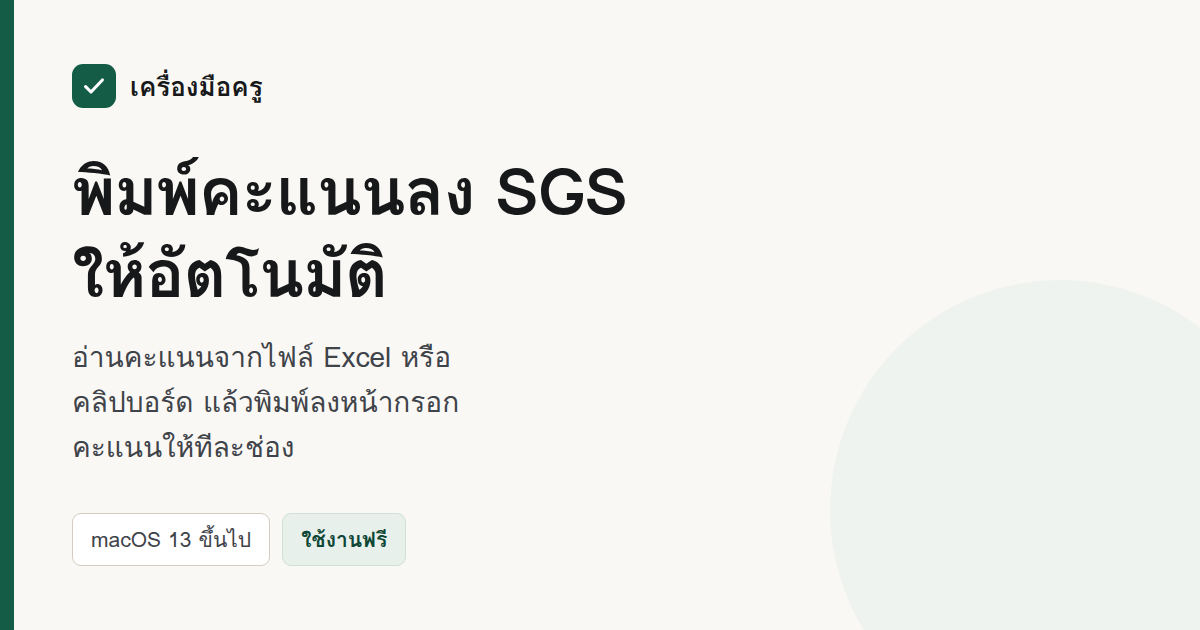
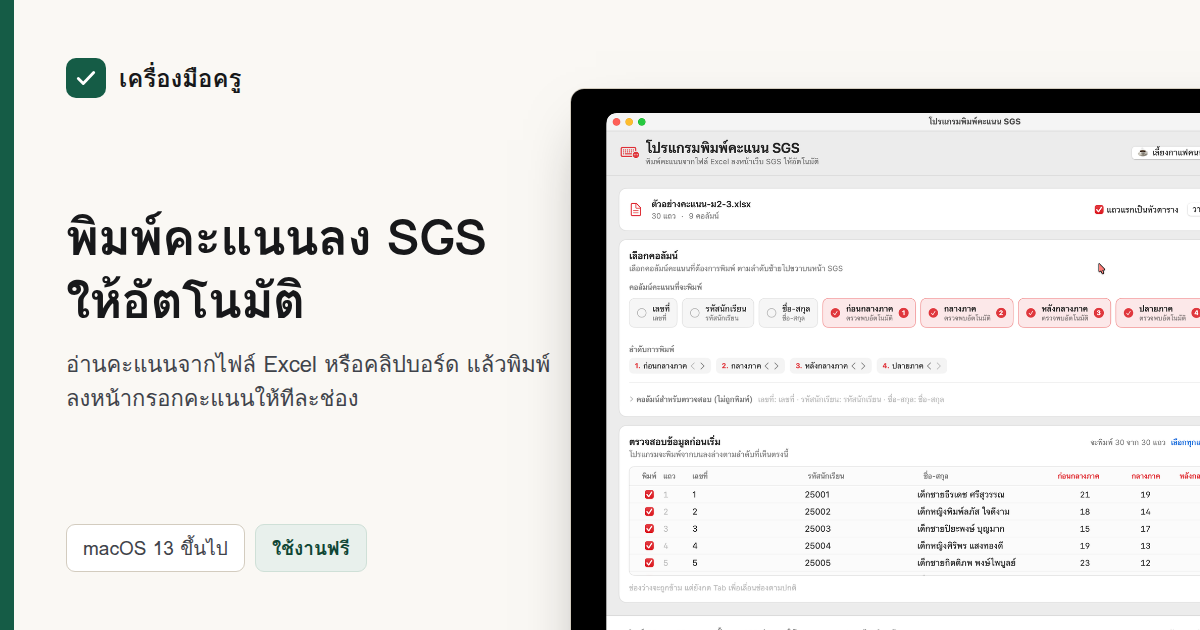
Publish store pages from bc97c59b81ed8350e5e90938fbaf4418ee3b77e3

diff --git a/sgs-auto-typer.html b/sgs-auto-typer.html
@@ -275,8 +275,11 @@
   .shot{border:1px solid var(--rule-2);border-radius:14px;overflow:hidden;background:#fff;box-shadow:var(--shadow)}
   .shot img{display:block;width:100%;height:auto}
   .shot figcaption{padding:12px 16px;font-size:13.5px;color:var(--ink-3);border-top:1px solid var(--rule);margin:0}
-  .shot.empty{display:grid;place-items:center;min-height:280px;border-style:dashed;
-    background:var(--paper-2);color:var(--ink-3);font-size:14px;text-align:center;padding:28px;line-height:1.7}
+  .shot picture{display:block}
+  .hero h1{max-width:17ch}
+  .hero .fineprint{max-width:60ch}
+  .hero .shot{margin-top:46px}
+  @media (max-width:940px){.hero .shot{margin-top:34px}}
   .spec{width:100%;border-collapse:collapse;margin-top:34px;font-size:15px}
   .spec th,.spec td{text-align:left;vertical-align:top;padding:12px 18px 12px 0;border-bottom:1px solid var(--rule)}
   .spec th{font-size:12.5px;letter-spacing:.08em;text-transform:uppercase;color:var(--ink-3);font-weight:600}
@@ -344,6 +347,15 @@
           หลังแตกไฟล์แล้วยังต้องตั้งค่าอีก 2 ขั้นตอนก่อนใช้ครั้งแรก
         </p>
       </div>
+
+      <figure class="shot">
+        <picture>
+          <source srcset="./images/sgs-auto-typer-main.webp" type="image/webp">
+          <img src="./images/sgs-auto-typer-main.png" width="1600" height="1205"
+               alt="หน้าจอโปรแกรม SGS Auto-Typer เปิดไฟล์คะแนนตัวอย่างไว้ แสดงคอลัมน์คะแนนสี่ช่องที่โปรแกรมตรวจพบเอง และตารางตรวจสอบข้อมูลก่อนเริ่มพิมพ์">
+        </picture>
+        <figcaption>หน้าจอหลักของโปรแกรม เปิดด้วยไฟล์คะแนนตัวอย่างที่ดาวน์โหลดได้จากหน้านี้</figcaption>
+      </figure>
 
     </div>
   </section>
